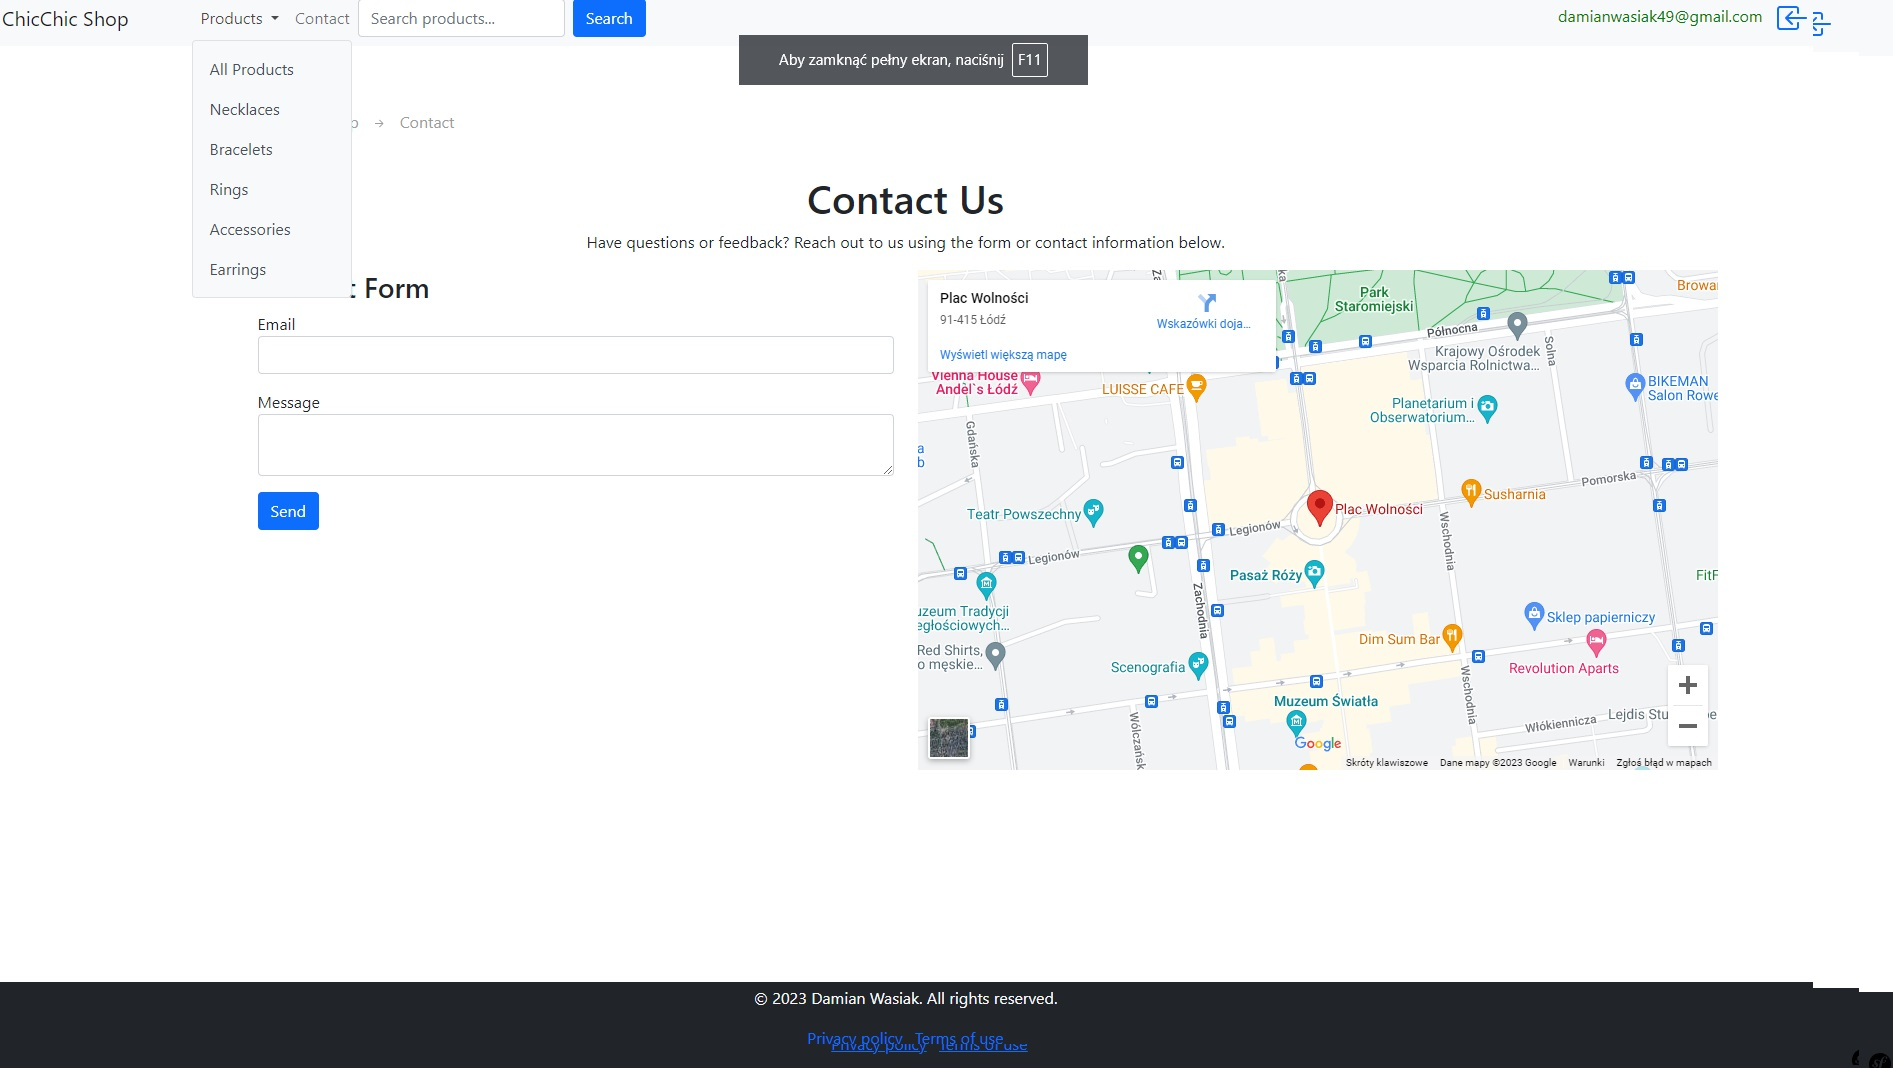
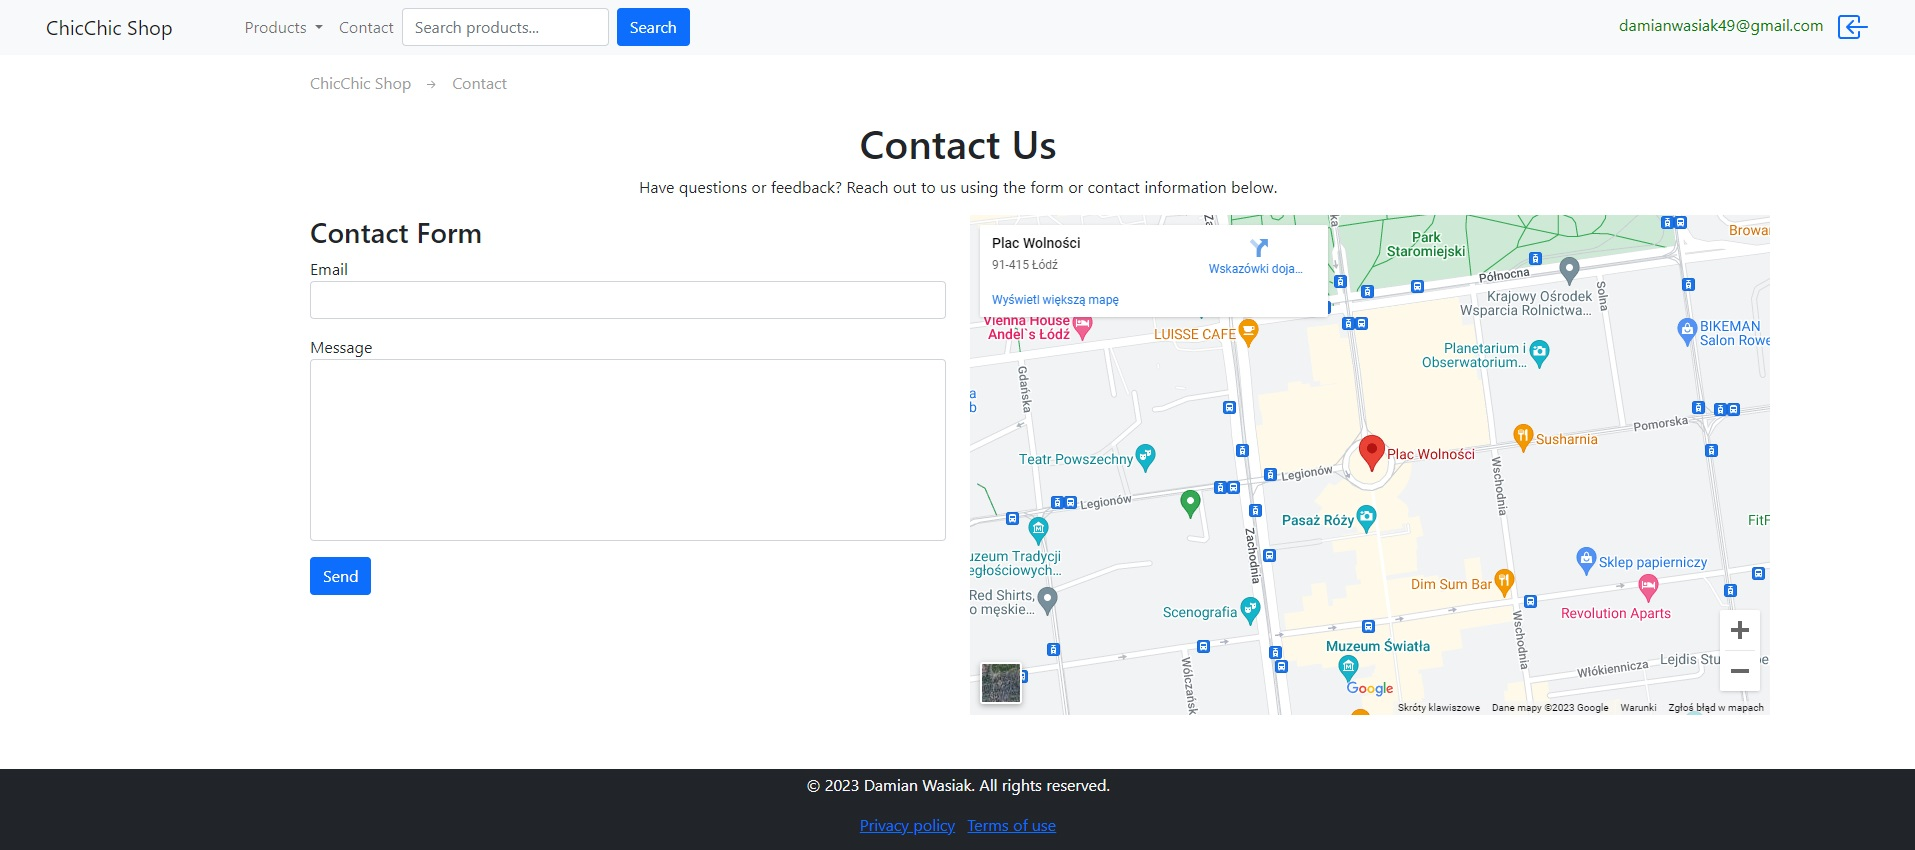
readme and new screenshoots

diff --git a/README.md b/README.md
@@ -48,13 +48,29 @@ This README provides basic instructions to set up and run the "ChicChic Shop" pr
 ## Screenshots
 
 ### ChicChic - Shop
+View of the main page with a menu with categories that we can enter.
 ![Image](https://github.com/JanuszProgramowaniaa/ChicChic-Shop/blob/main/public/images/screenshots/home.jpg)
 
 ### Products
+The view shows a collection of all products. Products are paged on the server side
 ![Image](https://github.com/JanuszProgramowaniaa/ChicChic-Shop/blob/main/public/images/screenshots/products.jpg)
 
+### Filter
+The view shows the results after server-side filtering.
+We filter by products added within a month, prices ranging from 2 to 10.
+Additionally, we sort by price from highest to lowest.
+Nothing is entered in the search engine, but it searches for products by symbol or name, we do not have to enter the exact phrase.
+![Image](https://github.com/JanuszProgramowaniaa/ChicChic-Shop/blob/main/public/images/screenshots/filter.jpg)
+
+### product
+The view shows product details.
+We can see an extensive breadcrumb menu that guides us step by step, including the category it belongs to.
+![Image](https://github.com/JanuszProgramowaniaa/ChicChic-Shop/blob/main/public/images/screenshots/product.jpg)
+
 ### Contact
+The view displays a contact form along with a map.
 ![Image](https://github.com/JanuszProgramowaniaa/ChicChic-Shop/blob/main/public/images/screenshots/contact.jpg)
+
 
 
 
